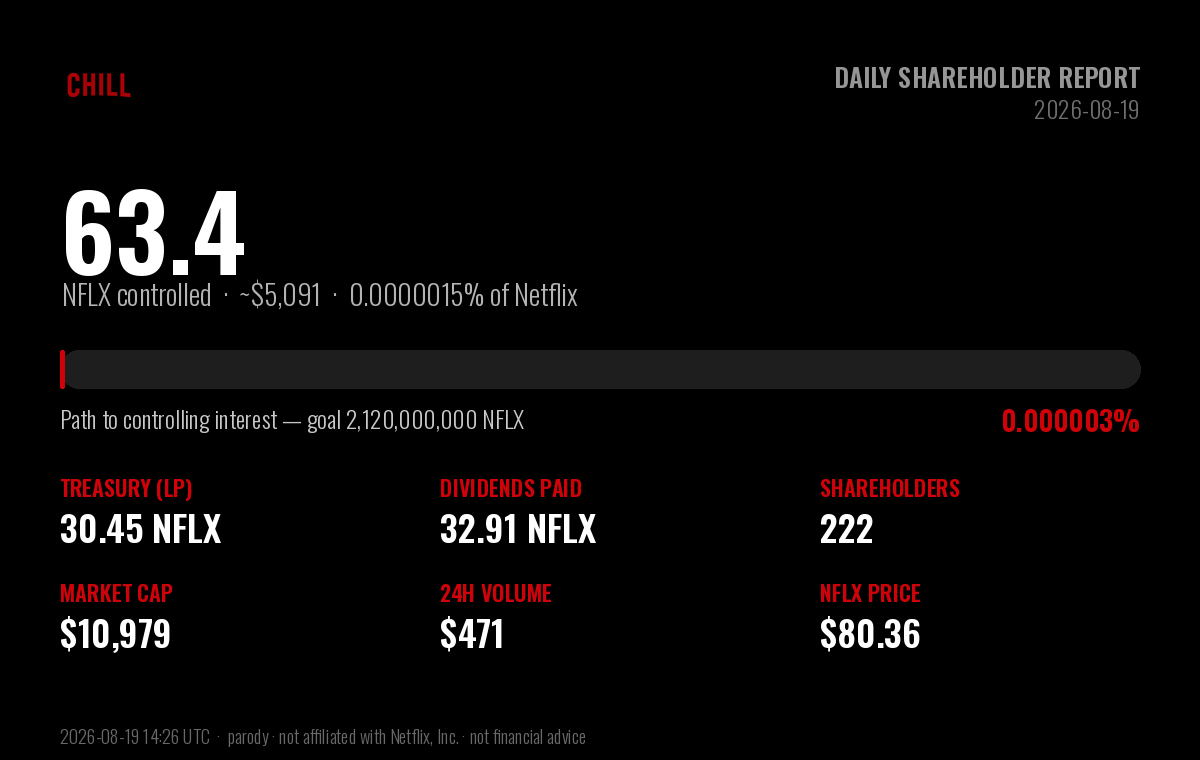
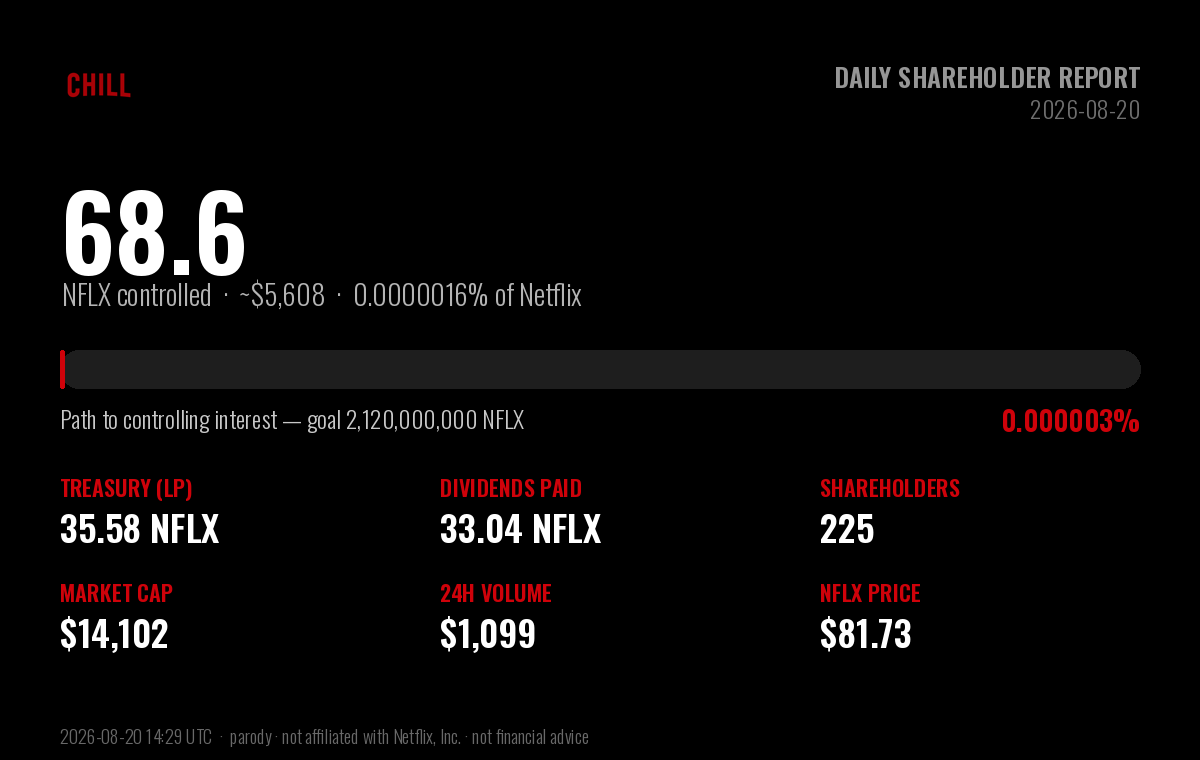
chore: daily $CHILL shareholder report (2026-08-20)

diff --git a/daily-holder-report/README.md b/daily-holder-report/README.md
@@ -1,6 +1,6 @@
 # $CHILL — Daily Shareholder Report
 
-### Netflix and Chill · Report to Shareholders · 2026-08-19
+### Netflix and Chill · Report to Shareholders · 2026-08-20
 
 > **Corporate objective:** acquire a controlling interest in Netflix (NFLX).
 > Netflix has **4,220,000,000** shares outstanding; a majority
@@ -13,53 +13,53 @@
 
 | Metric | Value |
 |---|---|
-| **NFLX under $CHILL control** | **63.35 NFLX** (~$5,091) |
-| Stake in Netflix | 0.000001501% of shares outstanding |
-| Progress to controlling interest | 0.0000030% of 2,120,000,000 |
-| Shares remaining to majority | 2,119,999,937 NFLX |
+| **NFLX under $CHILL control** | **68.62 NFLX** (~$5,608) |
+| Stake in Netflix | 0.000001626% of shares outstanding |
+| Progress to controlling interest | 0.0000032% of 2,120,000,000 |
+| Shares remaining to majority | 2,119,999,931 NFLX |
 
 ## Balance sheet — NFLX holdings
 
 | Holding | NFLX | USD |
 |---|---|---|
-| Treasury (protocol-owned liquidity) | 30.45 | $2,447 |
-| Dividends distributed to shareholders | 32.91 | $2,644 |
-| **Total NFLX controlled** | **63.35** | **$5,091** |
+| Treasury (protocol-owned liquidity) | 35.58 | $2,908 |
+| Dividends distributed to shareholders | 33.04 | $2,700 |
+| **Total NFLX controlled** | **68.62** | **$5,608** |
 
 ## Last 24 hours
 
 | Metric | Value |
 |---|---|
-| Trading volume | 5.86 NFLX (~$471) |
-| Net NFLX accumulated | -2.63 NFLX |
-| Dividends generated | 0.0586 NFLX |
-| Transactions | 18 (7 buys / 11 sells) |
-| $CHILL price change | -2.4% |
+| Trading volume | 13.45 NFLX (~$1,099) |
+| Net NFLX accumulated | 5.13 NFLX |
+| Dividends generated | 0.1345 NFLX |
+| Transactions | 18 (9 buys / 9 sells) |
+| $CHILL price change | +6.8% |
 
 ## Shareholder & market data
 
 | Metric | Value |
 |---|---|
-| Shareholders of record | 222 |
-| Lifetime unique participants | 921 |
+| Shareholders of record | 225 |
+| Lifetime unique participants | 923 |
 | Shares outstanding ($CHILL) | 1,000,000,000 |
-| Market capitalization | $10,979 |
-| $CHILL price | $0.00001098 |
-| NFLX price | $80.36 |
-| Lifetime volume | 3,290.68 NFLX (~$264,450) |
-| Lifetime transactions | 4,464 (2,542 buys / 1,922 sells) |
-| Days since IPO (launch) | 30 |
+| Market capitalization | $14,102 |
+| $CHILL price | $0.00001410 |
+| NFLX price | $81.73 |
+| Lifetime volume | 3,304.13 NFLX (~$270,034) |
+| Lifetime transactions | 4,482 (2,551 buys / 1,931 sells) |
+| Days since IPO (launch) | 31 |
 
 ## Per-share metrics
 
 | Metric | Value |
 |---|---|
-| NFLX backing per 1M $CHILL | 0.063353 NFLX |
-| Dividends per 1M $CHILL | 0.032907 NFLX |
+| NFLX backing per 1M $CHILL | 0.068620 NFLX |
+| Dividends per 1M $CHILL | 0.033041 NFLX |
 
 ---
 
-*Report generated 2026-08-19 14:26 UTC · block 40,629,175 · data via the Sentry-Robinhood
+*Report generated 2026-08-20 14:29 UTC · block 41,493,093 · data via the Sentry-Robinhood
 subgraph and Robinhood Chain explorer.*
 
 **Disclaimer:** $CHILL is an independent, community-driven **parody** token. It is
